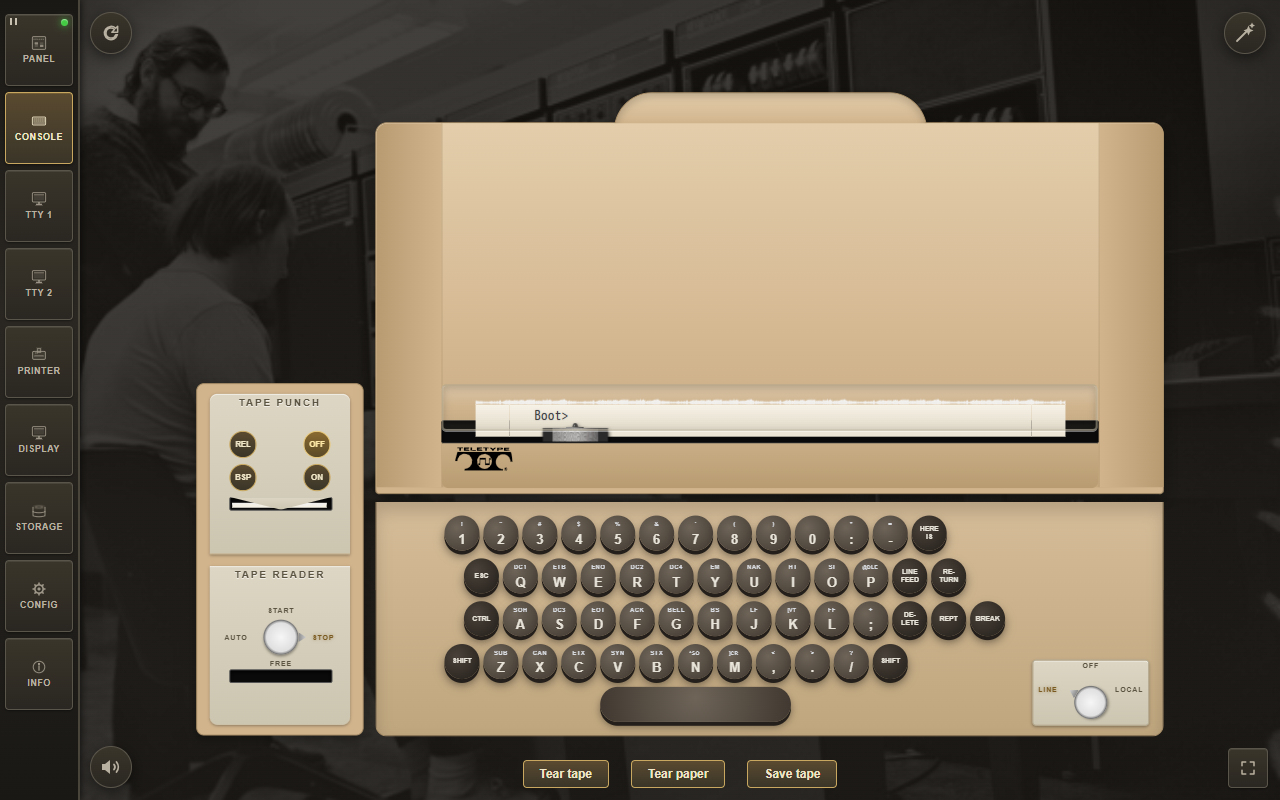
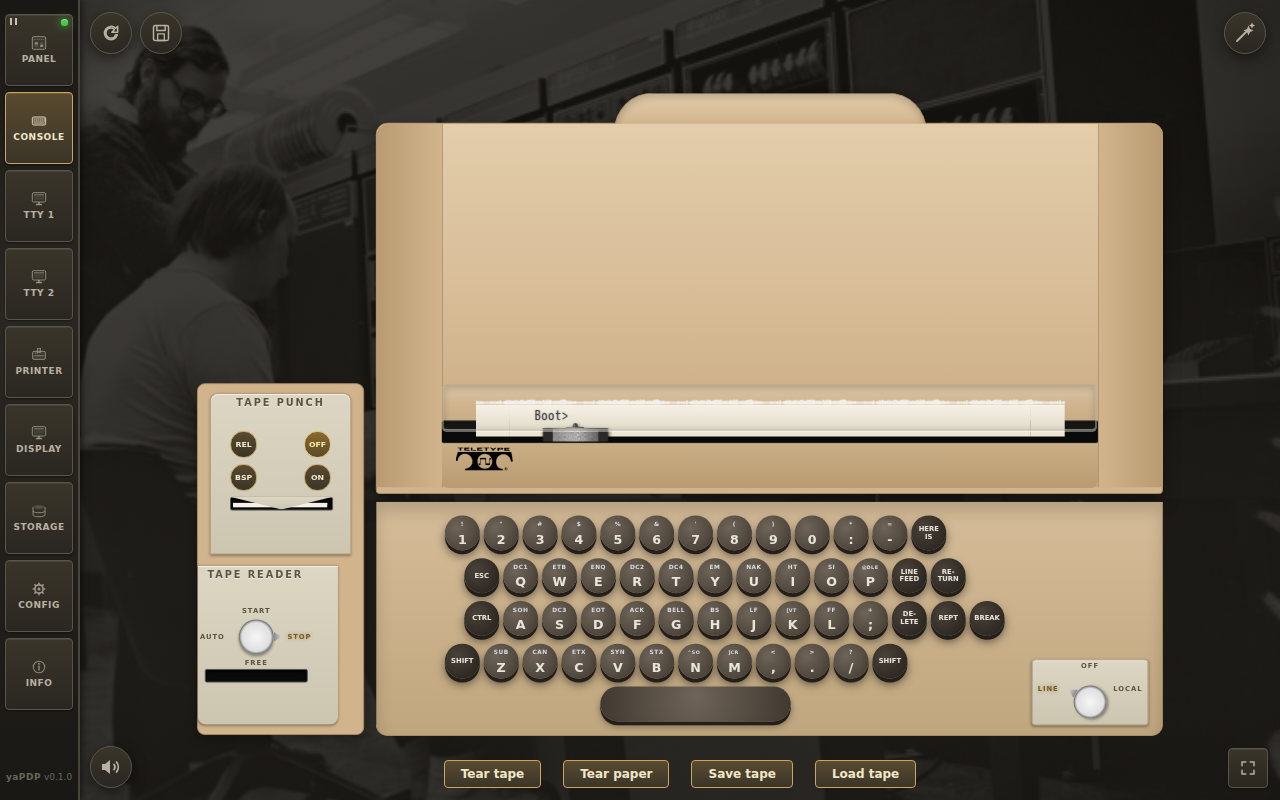
ASR-33: reader block offset left of the punch, tapes separated
Alexei: the two hanging tapes cover each other completely — shift the
reader block ~15% left in the cabinet? A 15% shift (25px of the 170px
cabinet) cannot fit: the reader panel is 144px wide, only 13px of slack
per side. Instead the reader panel now sits flush against the cabinet's
left edge AND its internals (slot, switch, label) shift a further 13px
left of the panel centre — the reader tape hangs ~26px left of the
punched tape, so both tapes stay visible during duplication. This also
matches the real ASR-33, where the reader mechanism is offset from the
punch.

- css/g60printer.css: #asr-reader align-self flex-start (flush left),
  #asr-reader .asr-slot left calc(50% - 13px), .asr-reader-switch left
  16px, #readertape left 10px, #asr-reader .asr-label offset -13px.
- Verified in the browser: panel flush left with no overflow, slot/switch/
  label aligned (256/258/255), tapes offset 25px rendered; all reader
  probes still green.
- assets/images/manual/console-teletype.png regenerated.

diff --git a/css/g60printer.css b/css/g60printer.css
@@ -1157,12 +1157,16 @@
 
 /* Reader: at the bottom — same size as the punch, keeping the original
    narrow width. Same cream surface as the punch above it and as the
-   LINE/OFF/LOCAL block (#ccu-apron). */
+   LINE/OFF/LOCAL block (#ccu-apron). The panel sits flush against the
+   cabinet's LEFT edge (not centred like the punch): on the real ASR-33 the
+   reader mechanism is offset to the left of the punch, and the offset
+   separates the two hanging tapes (~26px, see #readertape), so the punched
+   tape no longer covers the reader tape completely. */
 #asr-reader {
     position: relative;
     flex: 1 1 0;
     width: 144px;
-    align-self: center;
+    align-self: flex-start;
     background: linear-gradient(180deg, #ddd6c4 0%, #ccc5b0 100%);
     border-radius: 0 0 8px 8px;
     /* Same drop + inner-top highlight as the LINE/OFF/LOCAL block (#ccu-apron). */
@@ -1185,6 +1189,13 @@
     text-shadow: 0 1px 0 rgba(255, 255, 255, 0.6);
 }
 
+/* The TAPE READER label follows the offset mechanism: centred on the slot
+   (panel centre 72px minus the 13px offset) instead of on the panel. */
+#asr-reader .asr-label {
+    left: -13px;
+    right: 13px;
+}
+
 .asr-slot {
     position: absolute;
     left: 50%;
@@ -1201,6 +1212,15 @@
     border: 1px solid #555;
     border-radius: 2px;
     box-shadow: inset 0 2px 4px rgba(0, 0, 0, 0.9);
+}
+
+/* The READER slot sits 13px LEFT of the panel centre (the reader mechanism
+   is offset from the punch on the real ASR-33). Together with the panel
+   being flush against the cabinet's left edge, the reader tape hangs
+   ~26px left of the punched tape, so the two tapes are visibly separated
+   instead of covering each other completely. */
+#asr-reader .asr-slot {
+    left: calc(50% - 13px);
 }
 
 /* Triangular tongue sitting ON TOP of the punch tape-out slot, forming one
@@ -1306,14 +1326,14 @@
    orbits the disc centre and lands on START/STOP/FREE/AUTO. */
 .asr-reader-switch {
     position: absolute;
-    /* Centre the switch in the TAPE READER cabinet: the reader keeps its
-       original 144px width, so its switch centre sits at 75px; with a 92px
-       switch that means left = 75 - 46 = 29px. top:42px keeps the switch's
-       distance to the block BOTTOM (40px) the same as before the cabinet
-       was made taller. The hanging punch tape draws ABOVE it (see
-       #punchtape z-index), as a punched tape always passes in front of the
-       reader mechanism. */
-    left: 29px;
+    /* The switch follows the reader slot 13px LEFT of the panel centre:
+       with a 92px switch the centre sits at 16 + 46 = 62px (the slot's
+       59px, 3px apart as before). top:42px keeps the switch's distance to
+       the block BOTTOM (40px) the same as before the cabinet was made
+       taller. The hanging punch tape draws ABOVE it (see #punchtape
+       z-index), as a punched tape always passes in front of the reader
+       mechanism. */
+    left: 16px;
     top: 42px;
     width: 92px;
     height: 62px;
@@ -1545,8 +1565,11 @@
    removed and the rest moves up through the slot. */
 #readertape {
     position: absolute;
+    /* Hangs from the shifted reader slot: the slot centre sits at 59px
+       (72 - 13), so tape left = 59 - 48.5 ≈ 10px — ~26px left of the
+       punched tape (36px), keeping the two tapes visibly separate. */
     top: 298px;
-    left: 36px;
+    left: 10px;
     z-index: 10;
     width: 107px;
     max-width: 100%;
